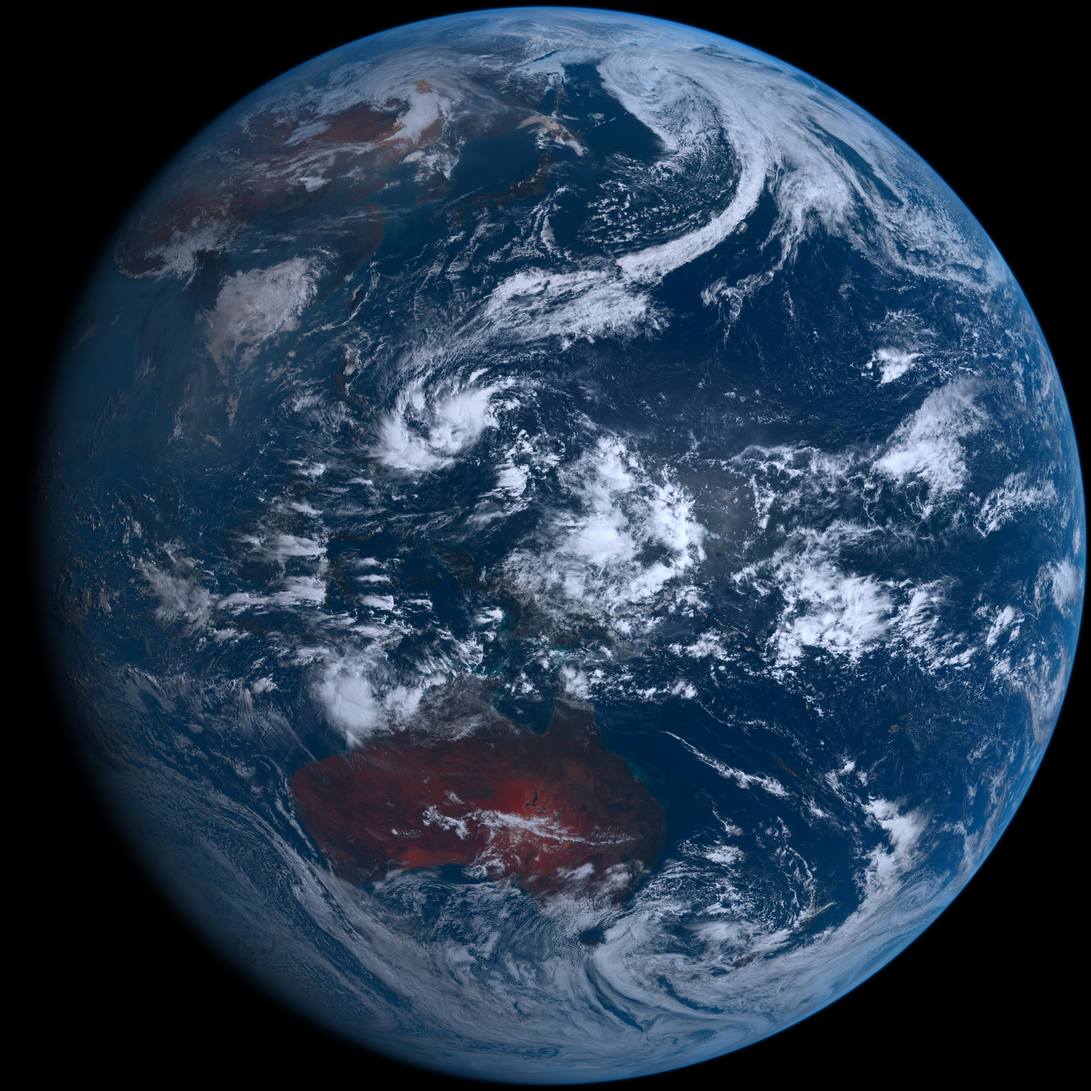
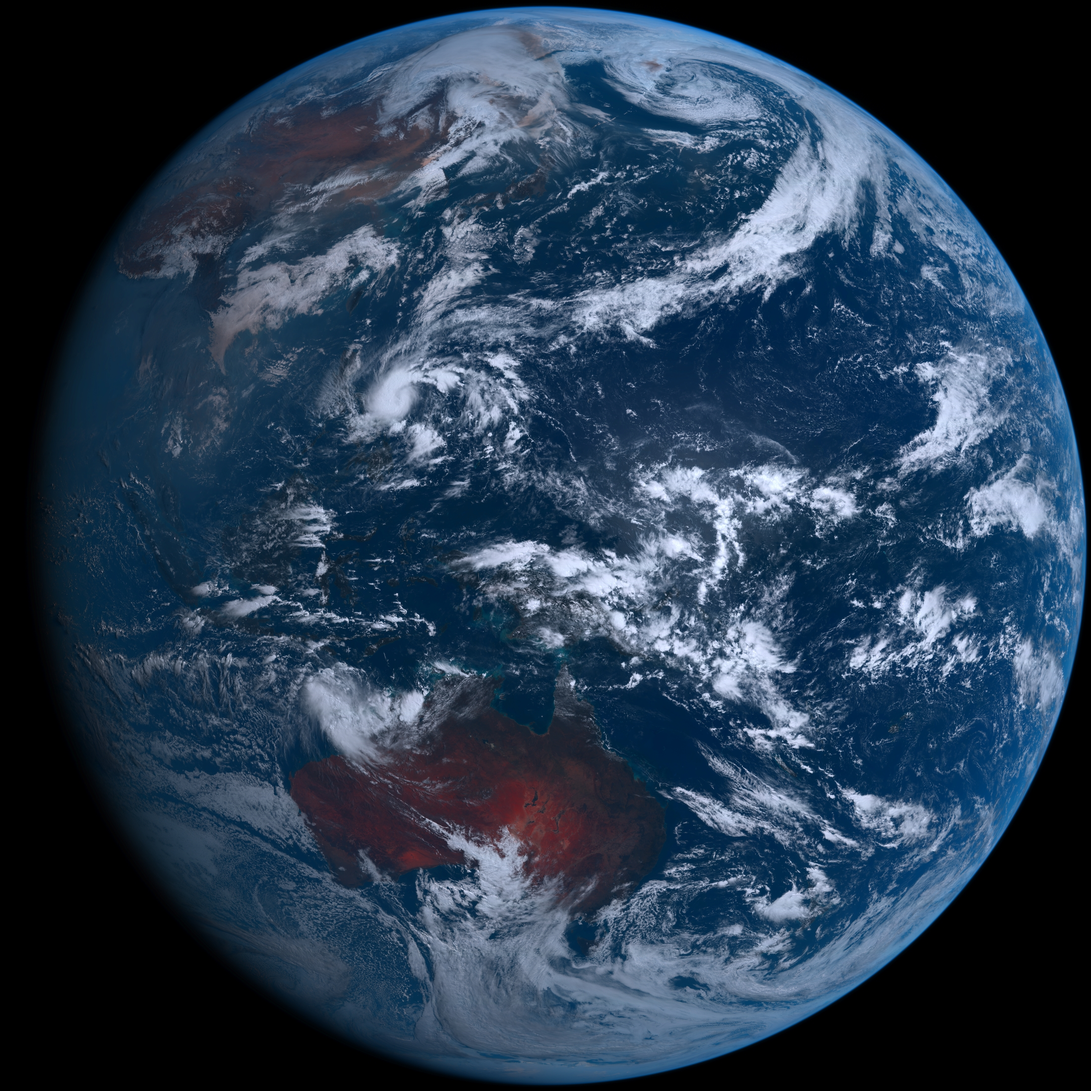
Tuesday 04/11/2023 03:08 +00

diff --git a/README.md b/README.md
@@ -1,12 +1,12 @@
 # ps1
 
 - ### [BingWallpaper](https://github.com/milankomaj/ps1/wiki/BingWallpaper)  [![Generate Wallpapers Github README.md](https://github.com/milankomaj/ps1/actions/workflows/GenWall.yml/badge.svg?event=schedule)](https://github.com/milankomaj/ps1/actions/workflows/GenWall.yml)
-- ##### Monday 10/04/2023 03:07:49 +00
+- ##### Tuesday 11/04/2023 03:07:54 +00
 <img src="BingWallpaper/latest.jpg" width="700" height="auto" title="👉  BingWallpaper  👈">
 
 
 - ### [Himawari](https://github.com/milankomaj/ps1/wiki/Himawari) [![Generate Wallpapers Github README.md](https://github.com/milankomaj/ps1/actions/workflows/GenWall.yml/badge.svg?event=schedule)](https://github.com/milankomaj/ps1/actions/workflows/GenWall.yml) [![Video](https://github.com/milankomaj/ps1/actions/workflows/video.yml/badge.svg?event=schedule)](https://github.com/milankomaj/ps1/actions/workflows/video.yml)
-- ##### Monday 10/04/2023 03:08:25 +00
+- ##### Tuesday 11/04/2023 03:08:30 +00
 <img src="Himawari/latest.jpg" width="auto" height="371" title="👉  Himawari  👈"> <img src="Himawari/pifd/himawari_pifd.webp" width="auto" height="371"/>
 
 
